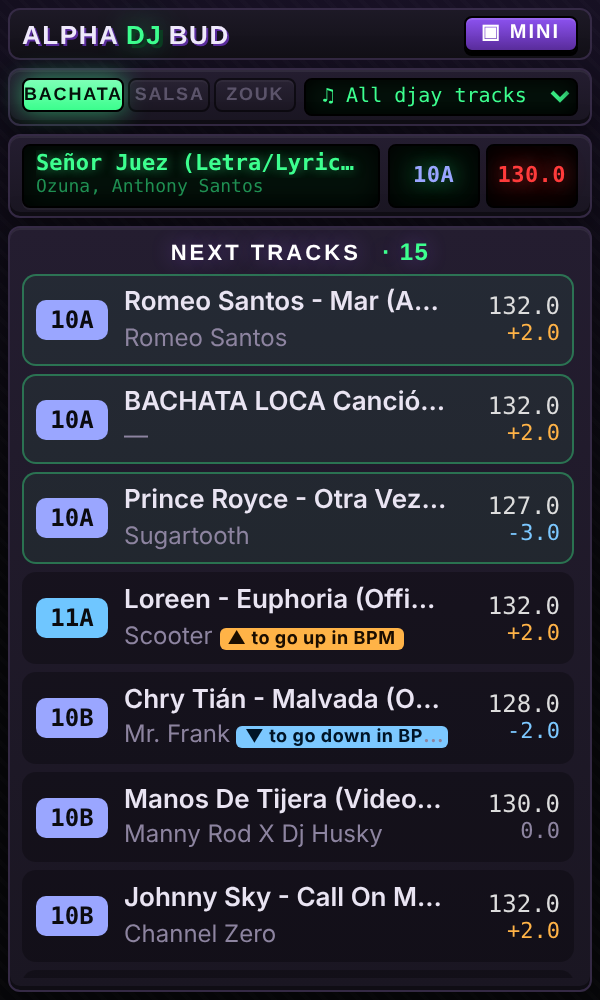
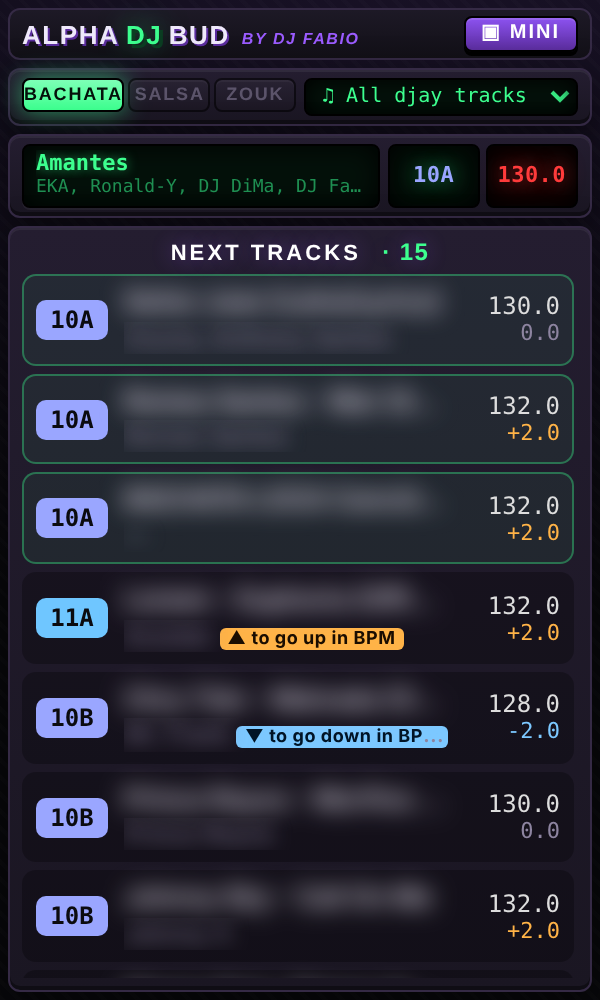
'by DJ Fabio' in the header (normal and MINI); screenshots with blurred suggestions
Claude-Session: https://claude.ai/code/session_01PJxvL4yMjCS4fjHuwUZAvg

diff --git a/alpha_dj_bud/web/style.css b/alpha_dj_bud/web/style.css
@@ -54,6 +54,9 @@ h2.sub { margin-top: 14px; font-size: 12px; color: var(--muted); text-shadow: no
   background: linear-gradient(180deg, #1d1926, #121017); border: 1px solid var(--edge); border-radius: 10px; }
 .logo { font: 900 30px/1 "Futura", "Avenir Next", "Arial Black", sans-serif; letter-spacing: .08em; color: #efe9fb;
   -webkit-text-stroke: 1px #000; text-shadow: 2px 2px 0 var(--purple-deep), 0 0 18px var(--purple-glow); white-space: nowrap; }
+.brandblock { display: flex; flex-direction: column; align-items: flex-end; gap: 2px; flex: none; }
+.byline { font: italic 600 12px/1 var(--label); letter-spacing: .16em; text-transform: uppercase; color: var(--purple);
+  text-shadow: 0 0 8px var(--purple-glow); margin-right: 2px; white-space: nowrap; }
 .logo span { color: var(--green); margin: 0 .25em; text-shadow: 2px 2px 0 #0b3d22, 0 0 14px var(--green-glow); }
 .lcd { background: var(--lcd); border: 1px solid #000; border-radius: 6px; color: var(--green);
   font: 12px/1.3 var(--mono); padding: 6px 10px; text-shadow: 0 0 6px var(--green-glow);
@@ -211,6 +214,8 @@ select:focus, .search:focus, .opt input:focus { border-color: var(--purple); }
   /* thin top bar */
   .bar { padding: 3px 6px; gap: 6px; justify-content: space-between; border-radius: 6px; }
   .logo { font-size: 13px; letter-spacing: .06em; -webkit-text-stroke: 0; text-shadow: 1px 1px 0 var(--purple-deep); }
+  .brandblock { flex-direction: row; align-items: baseline; gap: 6px; min-width: 0; }
+  .byline { font-size: 8px; letter-spacing: .1em; text-shadow: none; }
   .hdr-btns .hw, .hw.update { padding: 3px 8px; font-size: 10px; border-radius: 4px; }
   .panel { padding: 4px 6px; border-radius: 6px; }
   .panel::before, .panel::after { display: none; }

diff --git a/alpha_dj_bud/web/index.html b/alpha_dj_bud/web/index.html
@@ -12,7 +12,10 @@
 
   <!-- ===== HEADER ===== -->
   <header class="bar">
-    <div class="logo" title="Alpha DJ Bud">ALPHA<span>DJ</span>BUD</div>
+    <div class="brandblock" title="Alpha DJ Bud by DJ Fabio">
+      <div class="logo">ALPHA<span>DJ</span>BUD</div>
+      <div class="byline">by DJ Fabio</div>
+    </div>
     <div class="lcd lcd-wide" id="statusLcd" data-i18n="status.starting">Starting…</div>
     <div class="leds">
       <div class="led-cell"><i class="led" id="ledDjay"></i><b>DJAY</b></div>

diff --git a/README.md b/README.md
@@ -1,4 +1,4 @@
-# Alpha DJ Bud
+# Alpha DJ Bud — by DJ Fabio
 
 🇬🇧 **English** · 🇮🇹 [Italiano](README.it.md)
 

diff --git a/README.it.md b/README.it.md
@@ -1,4 +1,4 @@
-# Alpha DJ Bud
+# Alpha DJ Bud — by DJ Fabio
 
 🇬🇧 [English](README.md) · 🇮🇹 **Italiano**
 
